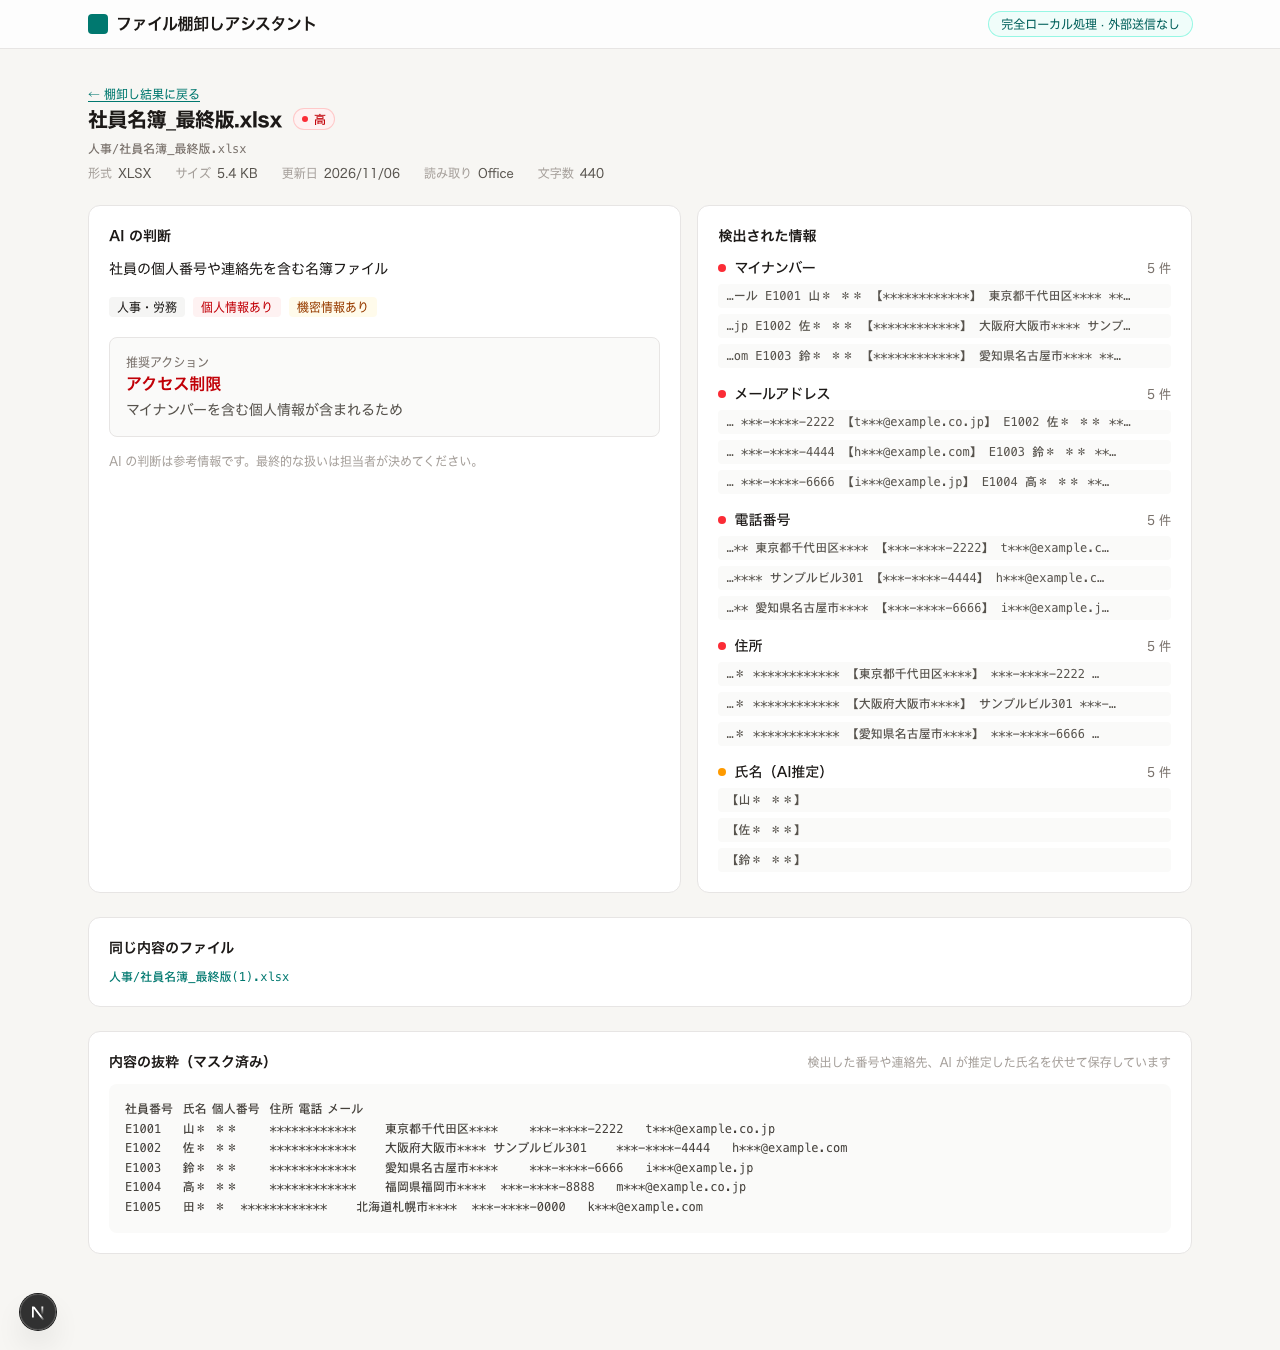
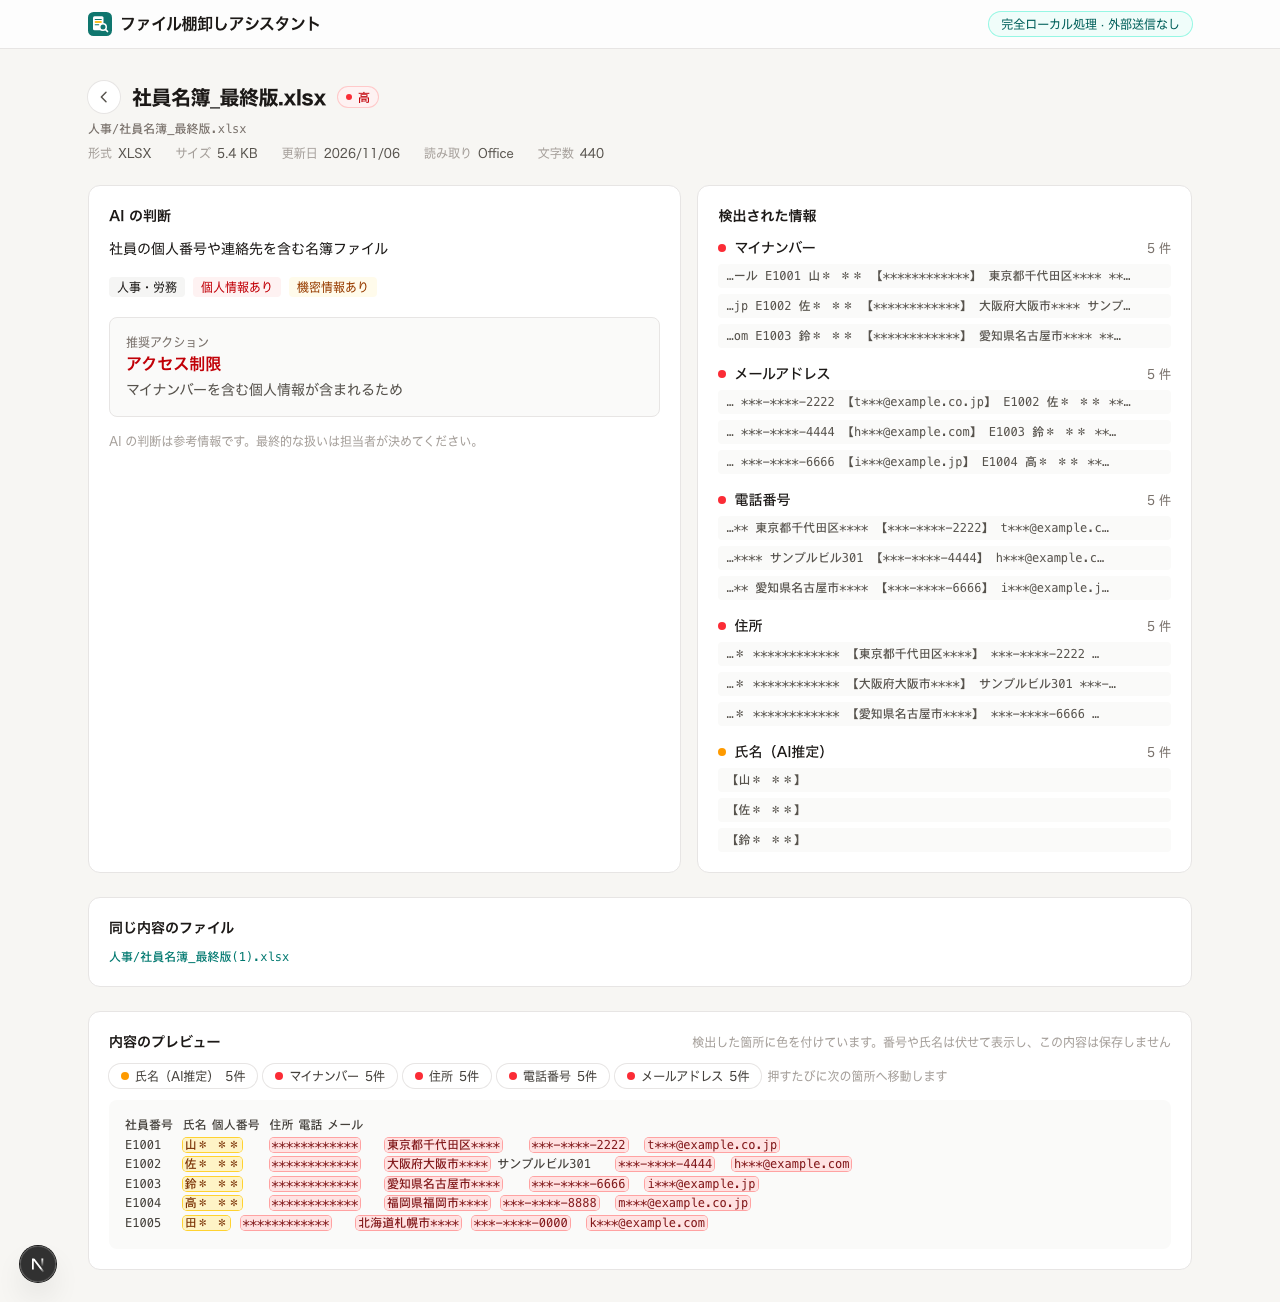
docs: README の画面写真を最新の画面で撮り直す
やることリスト（表・絞り込み・アイコン・補足タグ・Aqua のボタン）、詳しい分析、
ファイル詳細（色付きのプレビュー）、ホーム（新しいロゴ）を撮り直し、
「画面写真は以前の版」の注記を外す。

diff --git a/README.md b/README.md
@@ -16,8 +16,6 @@
 
 ## 画面
 
-> 画面写真は以前の版のもので、Table・アイコン・プレビューなど最新の画面とは一部異なります。
-
 ### 1. フォルダを指定して棚卸しを開始
 
 ローカル LLM への接続状況と、画像の文字読み取りに対応しているかを表示します。
